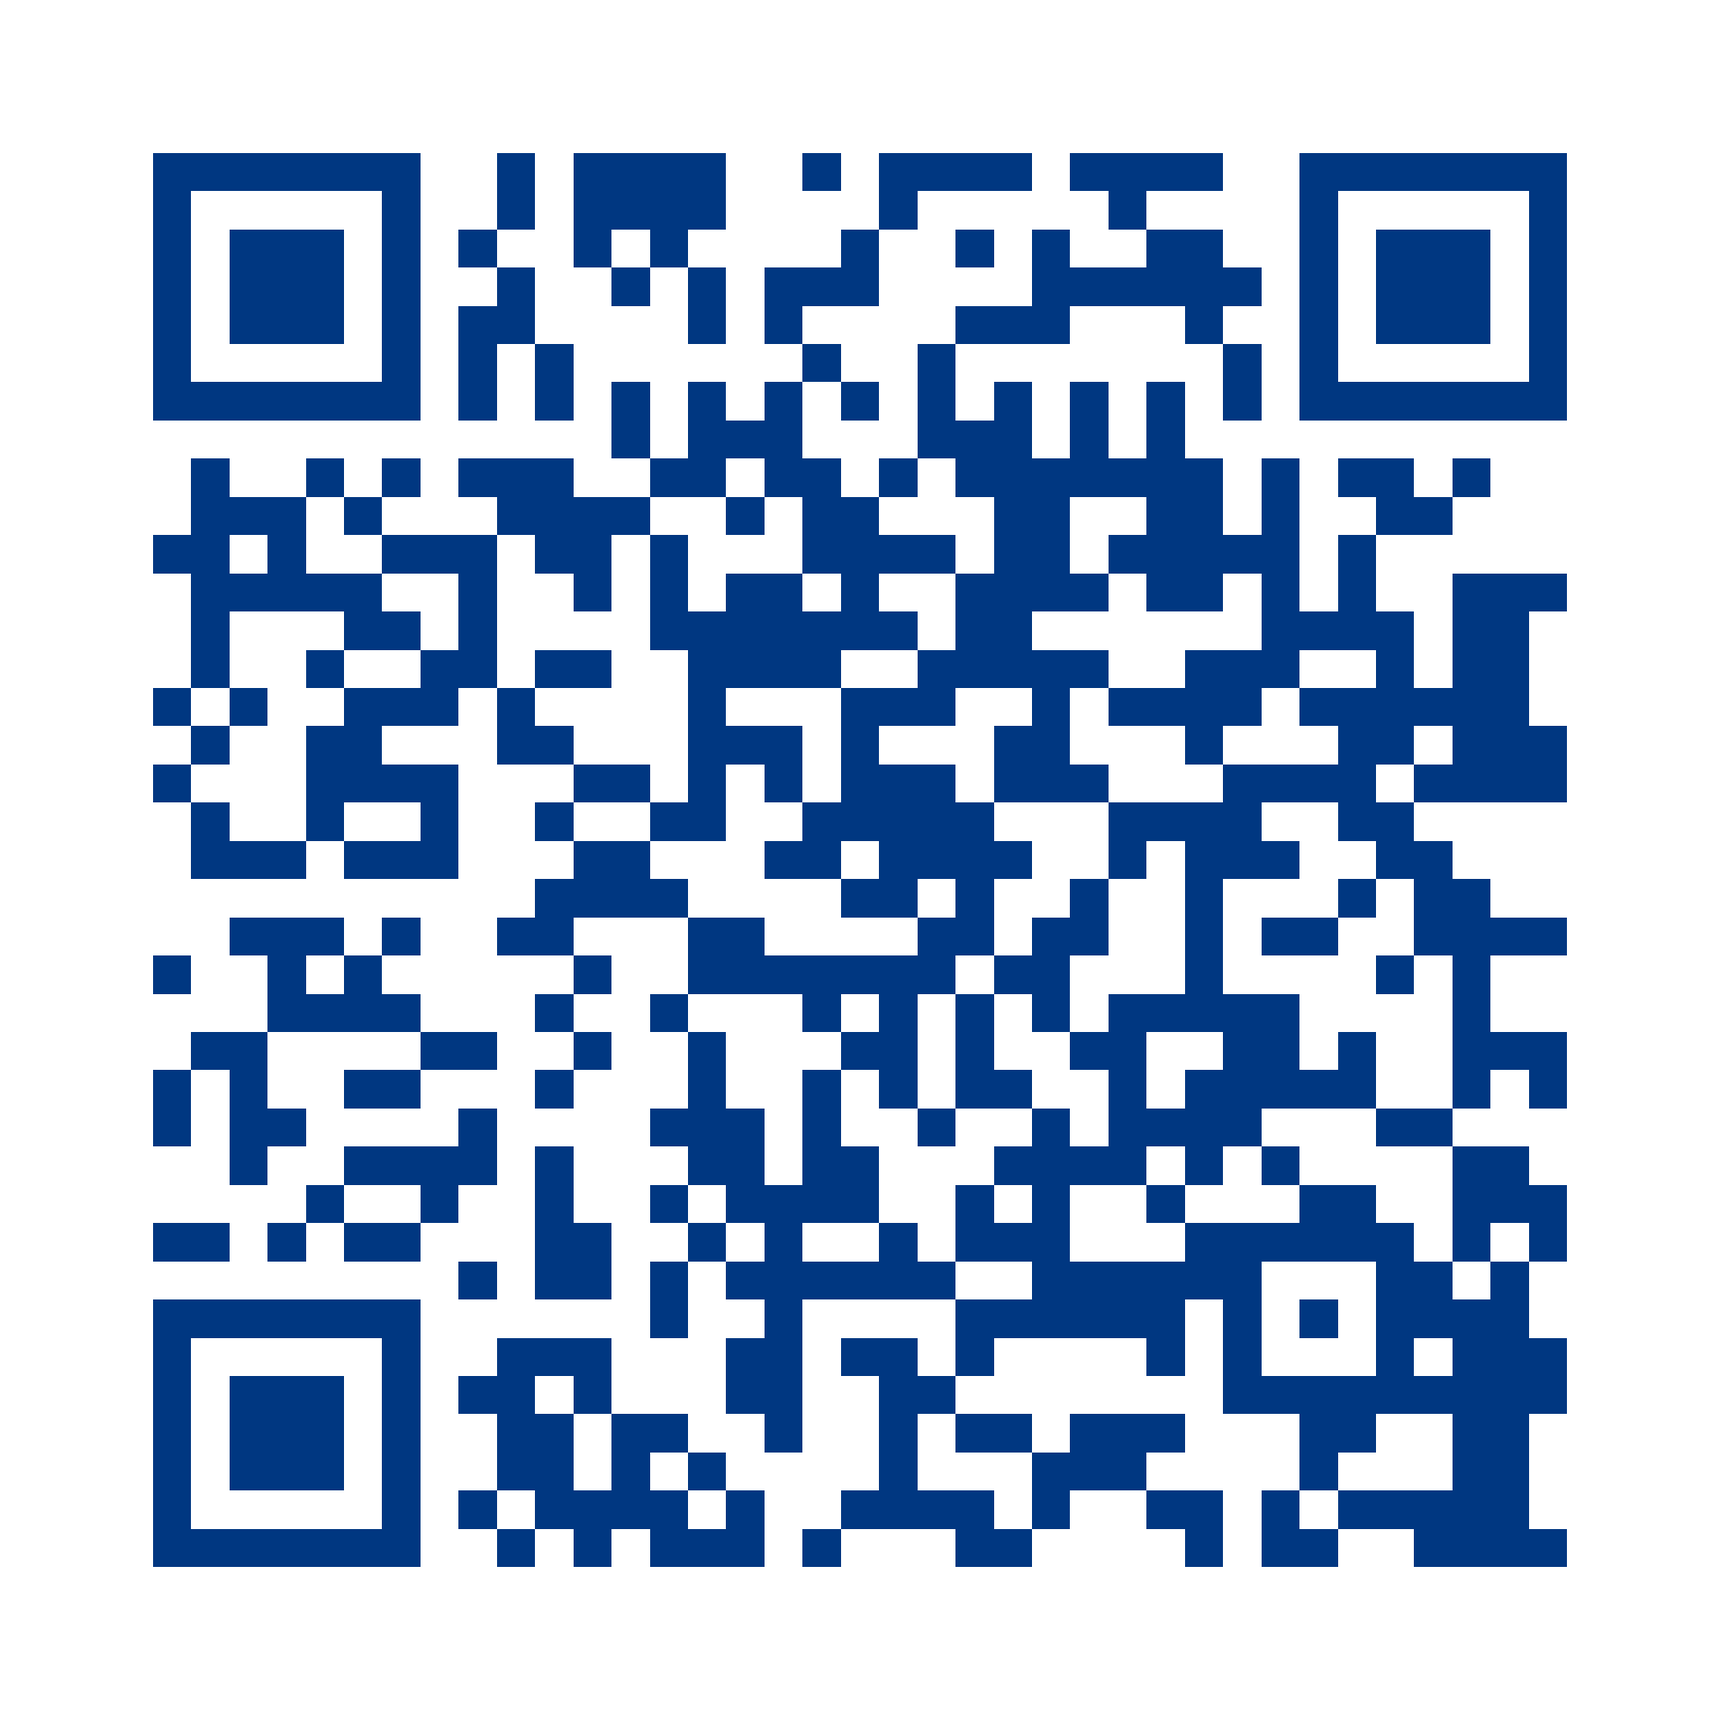
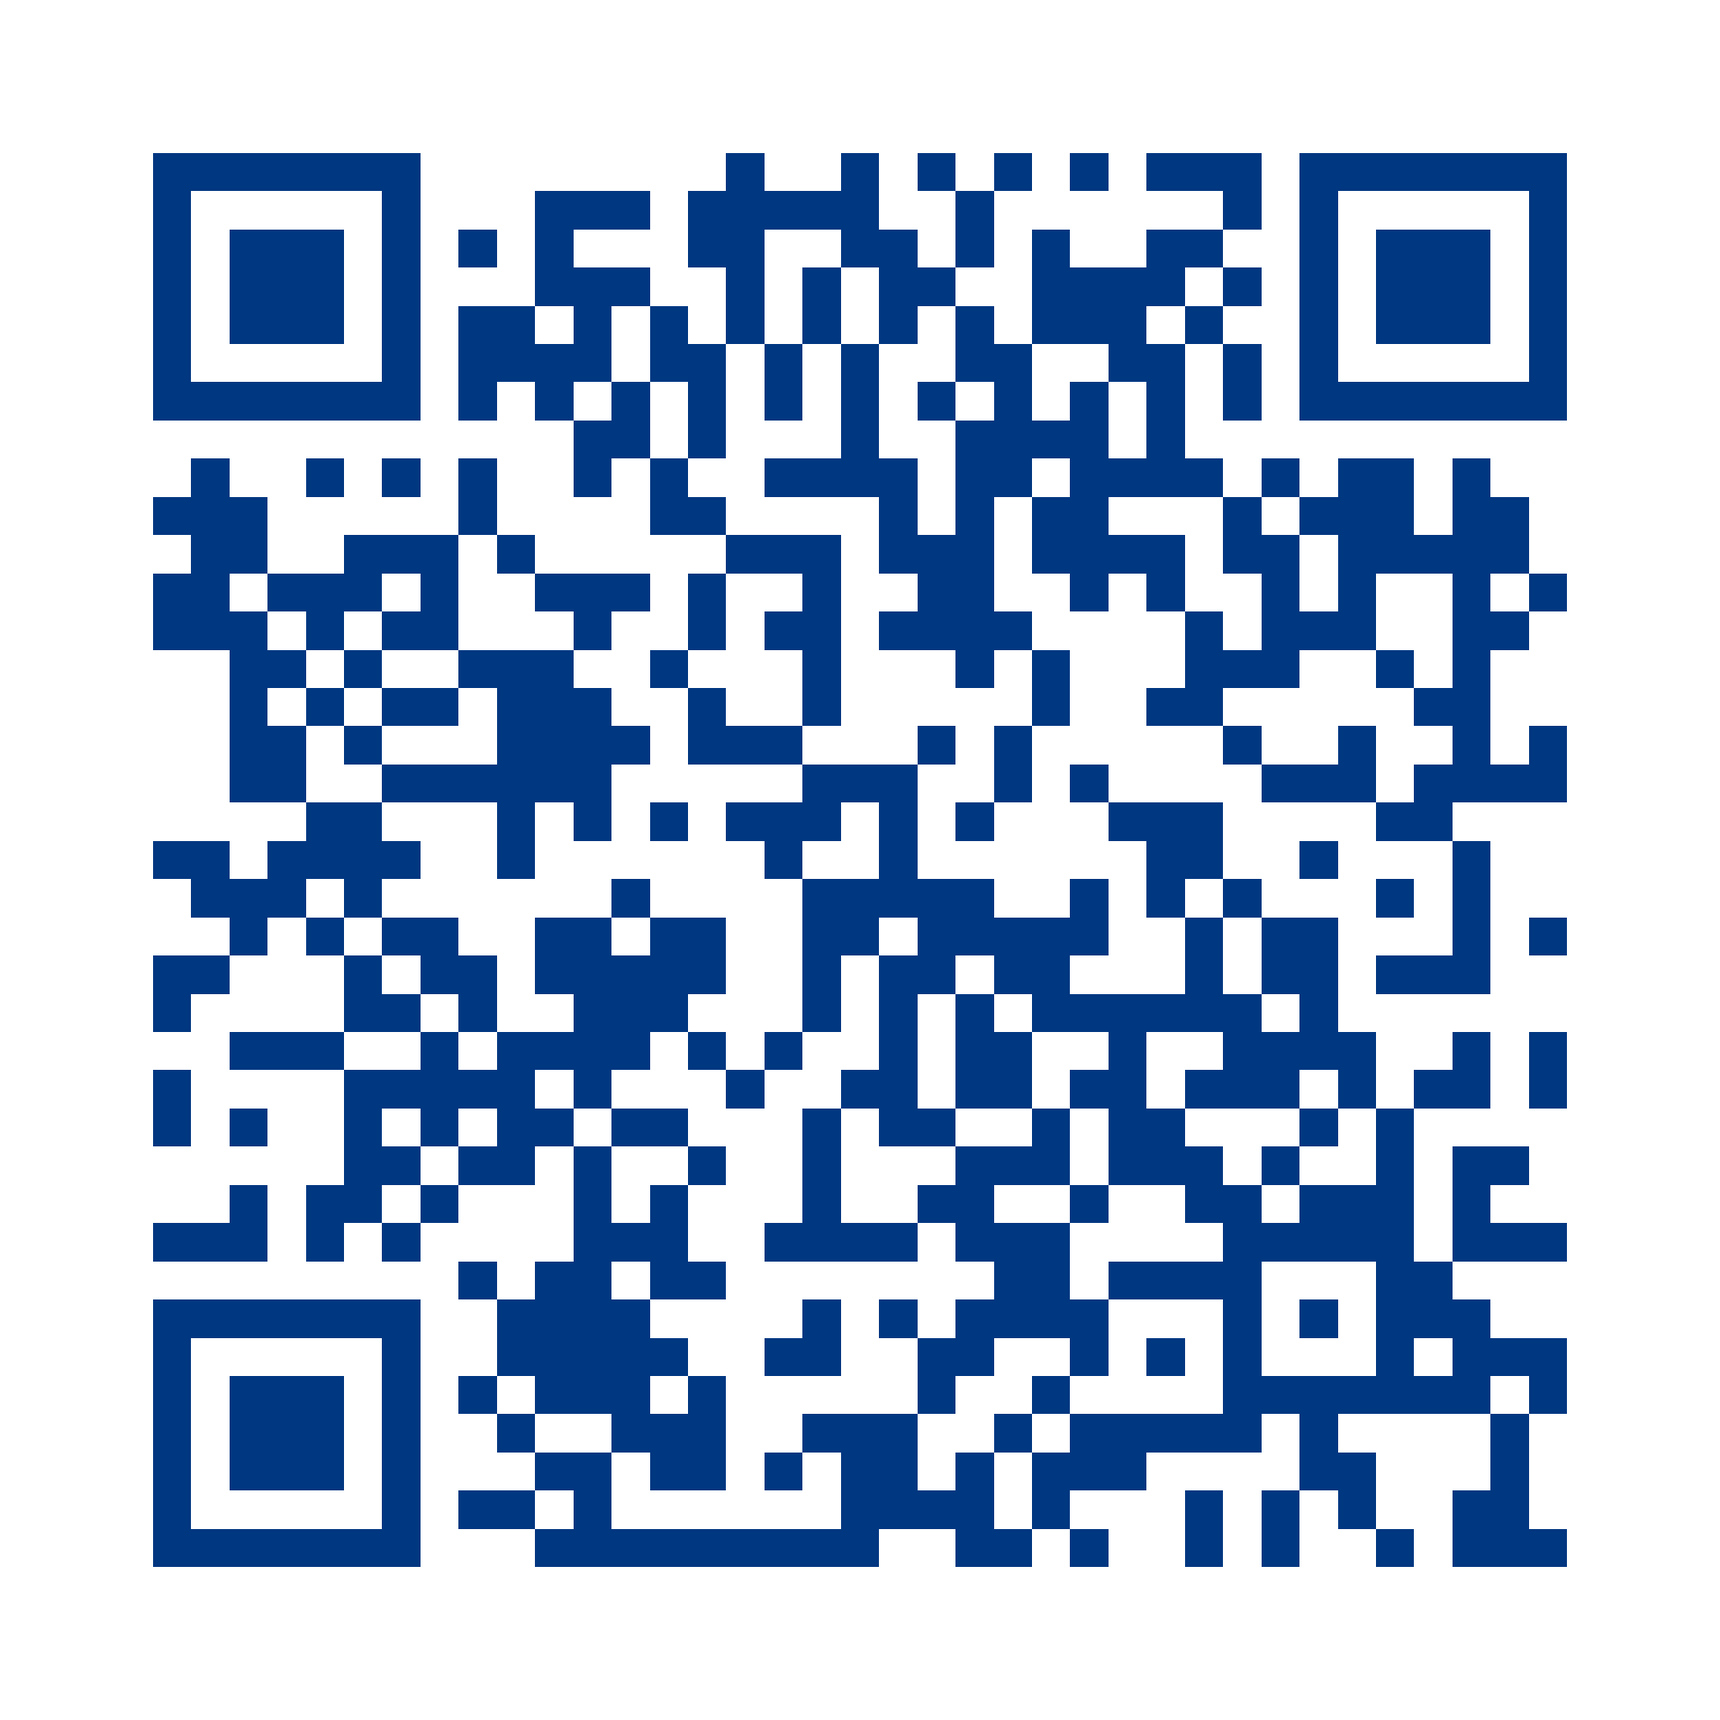
Anonyme Statistik mit Umami, QR-Code für vorsorgecheck-lang.de
- Zählpunkte für Fragen 1–5, Nachfrage, beide Ausstiege und Klicks auf
  Kontaktformular, Terminbuchung und Anrufen (keine Antworten, kein Einkommen)
- Umami-Skript nur bei eingetragener Website-ID, CSP gibt nur cloud.umami.is
  und gateway.umami.is frei, gezählt wird nur auf vorsorgecheck-lang.de
- QR-Code und Aushang-Karte auf https://vorsorgecheck-lang.de/?utm_source=aushang
- README: Live-Adresse, Statistik, Datenschutz

diff --git a/src/analytics.ts b/src/analytics.ts
@@ -1,0 +1,67 @@
+// Anonyme Nutzungsstatistik. Solange in config.ts keine Umami-Website-ID eingetragen ist,
+// wird nichts geladen und nichts gesendet.
+
+import { config } from "./config";
+
+type Sender = (name: string) => void;
+
+declare global {
+  interface Window {
+    umami?: { track: (name: string) => void };
+  }
+}
+
+let send: Sender | null = null;
+// Pro Durchlauf jede Seite nur einmal zählen – Vor- und Zurückklicken verfälscht sonst den Trichter
+const seen = new Set<string>();
+
+export const analyticsEnabled = config.analytics.websiteId !== "";
+
+export function setSender(sender: Sender | null): void {
+  send = sender;
+}
+
+export function track(name: string): void {
+  send?.(name);
+}
+
+export function trackOnce(name: string): void {
+  if (seen.has(name)) return;
+  seen.add(name);
+  track(name);
+}
+
+/** Neuer Durchlauf („Check neu starten“). */
+export function resetRun(): void {
+  seen.clear();
+}
+
+/** Zählt Klicks auf Links mit data-track="…", z. B. Termin- und Anruf-Buttons. */
+export function trackClicks(root: HTMLElement): void {
+  root.addEventListener("click", (event) => {
+    const link = (event.target as Element).closest<HTMLElement>("[data-track]");
+    if (link?.dataset.track) track(link.dataset.track);
+  });
+}
+
+/**
+ * Lädt das Umami-Skript. Der Seitenaufruf wird automatisch gezählt; Ereignisse, die vor dem
+ * Laden anfallen, werden kurz zwischengespeichert. Fehlt das Skript (z. B. Werbeblocker),
+ * funktioniert der Check ganz normal weiter.
+ */
+export function startAnalytics(): void {
+  if (!analyticsEnabled) return;
+  const { websiteId, scriptUrl, domain } = config.analytics;
+  const pending: string[] = [];
+  setSender((name) => (window.umami ? window.umami.track(name) : pending.push(name)));
+
+  const script = document.createElement("script");
+  script.defer = true;
+  script.src = scriptUrl;
+  script.dataset.websiteId = websiteId;
+  script.dataset.domains = domain;
+  script.addEventListener("load", () => {
+    for (const name of pending.splice(0)) window.umami?.track(name);
+  });
+  document.head.append(script);
+}

diff --git a/tests/tracking.test.ts b/tests/tracking.test.ts
@@ -1,0 +1,41 @@
+import { describe, expect, it } from "vitest";
+import { resetRun, setSender, trackOnce } from "../src/analytics";
+import { placeEvent } from "../src/logic/tracking";
+import type { Answers } from "../src/types";
+
+const base: Answers = { monthlyIncome: 3500 };
+
+describe("Statistik", () => {
+  it("benennt jede Seite des Checks", () => {
+    expect(([1, 2, 3, 4, 5] as const).map((p) => placeEvent(p, base))).toEqual([
+      "Frage 1",
+      "Frage 2",
+      "Frage 3",
+      "Frage 4",
+      "Frage 5",
+    ]);
+    expect(placeEvent("sicher", base)).toBe("Nachfrage: Bist du sicher?");
+    expect(placeEvent("ende", { ...base, satisfaction: "zufrieden", sure: "beenden" })).toBe("Ende: Rente reicht mir");
+    expect(placeEvent("ende", { ...base, satisfaction: "mehr", talk: "spaeter" })).toBe("Ende: Erst mal nicht");
+  });
+
+  it("zählt jede Seite pro Durchlauf nur einmal", () => {
+    const sent: string[] = [];
+    setSender((name) => sent.push(name));
+    trackOnce("Frage 1");
+    trackOnce("Frage 2");
+    trackOnce("Frage 1"); // zurück auf Frage 1
+    resetRun();
+    trackOnce("Frage 1"); // neuer Durchlauf
+    setSender(null);
+    expect(sent).toEqual(["Frage 1", "Frage 2", "Frage 1"]);
+  });
+
+  it("sendet keine Antworten und kein Einkommen", () => {
+    const answers: Answers = { monthlyIncome: 4200, satisfaction: "mehr", goal: "reisen", priority: "foerderung" };
+    for (const place of [1, 2, 3, 4, 5, "sicher", "ende"] as const) {
+      const name = placeEvent(place, answers);
+      expect(name).not.toMatch(/4200|4\.200|reisen|foerderung/i);
+    }
+  });
+});

diff --git a/src/main.ts b/src/main.ts
@@ -1,9 +1,11 @@
 import "./styles.css";
+import { resetRun, setSender, startAnalytics, trackClicks, trackOnce } from "./analytics";
 import { config } from "./config";
 import { fillPlaceholders, formatNumber } from "./content/copy";
 import { q1, q1Sure, q2, q3, q4 } from "./content/questions";
 import { TOTAL_STEPS, endReason, infoTopics, nextPlace, previousPlace } from "./logic/flow";
 import { estimatePension } from "./logic/pension";
+import { placeEvent } from "./logic/tracking";
 import type { Answers, Place } from "./types";
 import type { View } from "./ui/dom";
 import { el } from "./ui/dom";
@@ -37,6 +39,7 @@ function goTo(place: Place | null): void {
 
 function restart(): void {
   answers = freshAnswers();
+  resetRun();
   show({ name: "start" });
 }
 
@@ -157,6 +160,7 @@ function currentView(): View {
 function render(): void {
   const view = currentView();
   main.replaceChildren(view.node);
+  if (screen.name === "place") trackOnce(placeEvent(screen.place, answers));
   if (firstRender) {
     firstRender = false;
     return; // Beim ersten Laden keinen Fokus setzen
@@ -170,5 +174,9 @@ applyTheme(config.colors);
 if (isEmbedded) document.documentElement.classList.add("is-embedded");
 renderHeader(document.getElementById("site-header")!);
 renderFooter(document.getElementById("site-footer")!);
+// Im Entwicklungsmodus Zählpunkte nur in der Konsole anzeigen, sonst an Umami (falls eingetragen)
+if (import.meta.env.DEV) setSender((name) => console.info("[Statistik]", name));
+else startAnalytics();
+trackClicks(main);
 render();
 startHeightReporting(document.getElementById("app")!);

diff --git a/src/ui/final.ts b/src/ui/final.ts
@@ -2,6 +2,7 @@ import { config } from "../config";
 import { copy, fillPlaceholders } from "../content/copy";
 import { q5 } from "../content/questions";
 import { summaryLines } from "../logic/summary";
+import { CLICK_EVENTS } from "../logic/tracking";
 import type { Answers, ContactId } from "../types";
 import { el, externalLink, type View } from "./dom";
 import { renderChoices, renderHeading, renderProgress } from "./question";
@@ -9,7 +10,7 @@ import { renderChoices, renderHeading, renderProgress } from "./question";
 function callButton(): HTMLAnchorElement {
   return el(
     "a",
-    { class: "button button-secondary", href: config.phoneHref },
+    { class: "button button-secondary", href: config.phoneHref, "data-track": CLICK_EVENTS.call },
     // Geschützte Leerzeichen: Die Nummer soll im Button nicht umbrechen
     fillPlaceholders(copy.final.callButton, { phone: config.phone.replace(/ /g, "\u00a0") }),
   );
@@ -29,7 +30,12 @@ function renderNextStep(panel: HTMLElement, contact: ContactId): void {
     el(
       "div",
       { class: "contact-actions" },
-      externalLink(url, step.button, "button button-cta"),
+      externalLink(
+        url,
+        step.button,
+        "button button-cta",
+        contact === "ja" ? CLICK_EVENTS.contactForm : CLICK_EVENTS.booking,
+      ),
       callButton(),
     ),
     el("p", { class: "disclaimer" }, copy.final.newTabNote),

diff --git a/src/ui/end.ts b/src/ui/end.ts
@@ -2,6 +2,7 @@ import { config } from "../config";
 import { copy, fillPlaceholders } from "../content/copy";
 import { ending } from "../content/questions";
 import { summaryLines } from "../logic/summary";
+import { CLICK_EVENTS } from "../logic/tracking";
 import type { Answers, EndReason } from "../types";
 import { el, externalLink, type View } from "./dom";
 
@@ -27,11 +28,15 @@ export function renderEnd(props: EndViewProps): View {
     el(
       "ul",
       { class: "later-links" },
-      el("li", {}, externalLink(config.bookingUrl, ending.bookingLink)),
+      el("li", {}, externalLink(config.bookingUrl, ending.bookingLink, undefined, CLICK_EVENTS.bookingLater)),
       el(
         "li",
         {},
-        el("a", { href: config.phoneHref }, fillPlaceholders(ending.callLink, { phone: config.phone })),
+        el(
+          "a",
+          { href: config.phoneHref, "data-track": CLICK_EVENTS.callLater },
+          fillPlaceholders(ending.callLink, { phone: config.phone }),
+        ),
       ),
     ),
   );

diff --git a/vite.config.ts b/vite.config.ts
@@ -1,16 +1,18 @@
 import { defineConfig } from "vitest/config";
+import { config } from "./src/config";
 
 // Nur im Build: Content-Security-Policy als Meta-Tag. Sie erlaubt ausschließlich
-// eigene Dateien, keine iframes und blockiert jede
-// Netzwerkanfrage aus dem Skript heraus.
+// eigene Dateien, keine iframes und blockiert jede Netzwerkanfrage aus dem Skript heraus –
+// einzige Ausnahme ist die anonyme Statistik (Umami), wenn eine Website-ID eingetragen ist.
 // (Im Entwicklungsmodus würde sie Vites Live-Reload blockieren.)
+const stats = config.analytics.websiteId ? config.analytics : null;
 const csp = [
   "default-src 'self'",
-  "script-src 'self'",
+  stats ? `script-src 'self' ${new URL(stats.scriptUrl).origin}` : "script-src 'self'",
   "style-src 'self'",
   "img-src 'self' data: https:",
   "font-src 'self'",
-  "connect-src 'none'",
+  stats ? `connect-src ${new URL(stats.endpoint).origin}` : "connect-src 'none'",
   "frame-src 'none'",
   "object-src 'none'",
   "base-uri 'self'",

diff --git a/src/config.ts b/src/config.ts
@@ -37,6 +37,14 @@ export const config = {
     contributionForMaxAllowance: 1800, // Eigenbeitrag pro Jahr, ab dem die volle Grundzulage fließt
     childAllowance: 300, // Kinderzulage pro Kind und Jahr, höchstens
   },
+  // Anonyme Nutzungsstatistik mit Umami Cloud (ohne Cookies). Leere websiteId = keine Statistik.
+  // Gezählt werden nur erreichte Seiten und Klicks auf Termin/Kontakt/Anruf – keine Antworten.
+  analytics: {
+    websiteId: "aaa0176a-0c9b-4fce-9de3-c02465f180bb", // Website-ID aus Umami (Einstellungen → Websites → Bearbeiten)
+    scriptUrl: "https://cloud.umami.is/script.js",
+    endpoint: "https://gateway.umami.is", // Dorthin sendet das Umami-Skript die Zählungen
+    domain: "vorsorgecheck-lang.de", // nur hier zählen, nicht bei lokalen Tests
+  },
   // Allianz-CI, abgeleitet aus dem Design-System von allianz.de
   colors: {
     primary: "#007AB3", // Allianz Interaktiv-Blau: Buttons, Links, Fortschritt, Auswahl

diff --git a/src/logic/tracking.ts b/src/logic/tracking.ts
@@ -1,0 +1,25 @@
+// Namen der anonymen Zählpunkte für die Statistik. Gezählt wird nur, welche Seite
+// erreicht und welcher Button geklickt wurde – keine Antworten, kein Einkommen.
+
+import type { Answers, Place } from "../types";
+import { endReason } from "./flow";
+
+export const CLICK_EVENTS = {
+  contactForm: "Klick: Kontaktformular",
+  booking: "Klick: Terminbuchung",
+  call: "Klick: Anrufen",
+  bookingLater: "Klick: Terminbuchung (Abschlussseite)",
+  callLater: "Klick: Anrufen (Abschlussseite)",
+} as const;
+
+/** Ereignis, wenn jemand eine Seite des Checks erreicht. */
+export function placeEvent(place: Place, answers: Answers): string {
+  switch (place) {
+    case "sicher":
+      return "Nachfrage: Bist du sicher?";
+    case "ende":
+      return endReason(answers) === "zufrieden" ? "Ende: Rente reicht mir" : "Ende: Erst mal nicht";
+    default:
+      return `Frage ${place}`;
+  }
+}

diff --git a/src/ui/dom.ts b/src/ui/dom.ts
@@ -24,6 +24,11 @@ export interface View {
   focus?: HTMLElement; // Element, das nach dem Screenwechsel den Fokus bekommt
 }
 
-export function externalLink(href: string, text: string, className?: string): HTMLAnchorElement {
-  return el("a", { href, class: className, target: "_blank", rel: "noopener noreferrer" }, text);
+/** `track`: Name des Zählpunkts für die Statistik (siehe analytics.ts). */
+export function externalLink(href: string, text: string, className?: string, track?: string): HTMLAnchorElement {
+  return el(
+    "a",
+    { href, class: className, target: "_blank", rel: "noopener noreferrer", "data-track": track },
+    text,
+  );
 }

diff --git a/README.md b/README.md
@@ -2,6 +2,8 @@
 
 Ein kleines Web-Tool: 5 Fragen, ca. 2 Minuten. Es zeigt, wie viel gesetzliche Rente man ungefähr erwarten kann, fragt nach Zielen und Vorsorge-Wunsch und führt zum kostenlosen Orientierungsgespräch.
 
+**Live:** https://vorsorgecheck-lang.de (GitHub Pages, eigene Domain bei Namecheap)
+
 Entstanden als Kopie des Selbstchecks [Versicherungscheck](https://github.com/sc89y66296-alt/Versicherungscheck); Technik, Gestaltung und Terminbuchung sind von dort übernommen.
 
 ## Ablauf
@@ -144,8 +146,9 @@ Bei Website-Baukästen (z. B. WordPress-Block „Individuelles HTML“) lässt s
 
 ## 6. Datenschutz
 
-- Keine Cookies, kein `localStorage`/`sessionStorage`, keine Anfragen an fremde Server, keine externen Schriften.
-- Der gebaute Check enthält eine Content-Security-Policy, die Netzwerkanfragen aus dem Skript heraus technisch blockiert.
+- Keine Cookies, kein `localStorage`/`sessionStorage`, keine externen Schriften. Fremde Server werden nur für die anonyme Statistik angesprochen (siehe unten), wenn sie eingeschaltet ist.
+- Der gebaute Check enthält eine Content-Security-Policy, die Netzwerkanfragen aus dem Skript heraus technisch blockiert – mit der einzigen Ausnahme des Statistik-Servers.
+- **Statistik (Umami Cloud):** Ist in `src/config.ts` unter `analytics.websiteId` eine ID eingetragen, lädt der Check das Umami-Skript und zählt ohne Cookies: Seitenaufruf (mit Herkunft, z. B. `utm_source=aushang`), erreichte Fragen (`Frage 1`–`Frage 5`, `Nachfrage: Bist du sicher?`), die beiden Ausstiege (`Ende: …`) und Klicks auf Kontaktformular, Terminbuchung und Anrufen. Antworten und Einkommen werden nicht gesendet. Jede Seite zählt pro Durchlauf einmal. Gezählt wird nur auf `analytics.domain`, nicht bei lokalen Tests. Auswertung in Umami unter *Reports → Funnel* (Schritte als Events: Frage 1 → … → Frage 5 → Klick). Werbeblocker unterdrücken die Zählung teilweise – die Zahlen sind eine Untergrenze. Die Statistik muss in der Datenschutzerklärung genannt werden (IP-Adresse wird kurz verarbeitet, aber nicht gespeichert).
 - Frage 5: Kontaktformular (allianz-vor-ort.de) und Buchungskalender (Allianz-Dienstleister bookingtime) öffnen sich erst nach einem Klick in einem neuen Tab – vorher gibt es keine Verbindung dorthin. Angaben aus dem Check werden nicht übergeben, ein Referrer wird nicht gesendet. Was jemand dort eingibt, verarbeiten die Allianz bzw. bookingtime nach ihren eigenen Datenschutzhinweisen; die Datenschutzerklärung der Agentur sollte bookingtime nennen. Der Check selbst lädt keine fremden Seiten (Content-Security-Policy: `frame-src 'none'`).
 - Wie bei jeder Webseite protokolliert der Webserver ggf. IP-Adressen in seinen Log-Dateien – das ist Sache des Hosters und gehört in die bestehende Datenschutzerklärung der Website.
 - Das Einkommen aus Frage 1 bleibt im Browser und wird nirgends hin übertragen.
@@ -161,7 +164,7 @@ Bei Website-Baukästen (z. B. WordPress-Block „Individuelles HTML“) lässt s
 
 ## 8. QR-Code
 
-Im Ordner `qr-code/` liegen ein reiner QR-Code und eine Aushang-Karte (1080 × 1350, Allianz-Farben), jeweils als SVG (für den Druck, beliebig skalierbar) und PNG. Beide verweisen auf die GitHub-Pages-Adresse https://sc89y66296-alt.github.io/Altersvorsorgedepot/. Zieht der Check später auf die Agentur-Website um, muss der QR-Code neu erzeugt werden.
+Im Ordner `qr-code/` liegen ein reiner QR-Code und eine Aushang-Karte (1080 × 1350, Allianz-Farben), jeweils als SVG (für den Druck, beliebig skalierbar) und PNG. Beide verweisen auf https://vorsorgecheck-lang.de/?utm_source=aushang – so erscheinen Besuche über den Aushang in der Statistik (Umami → Quellen/UTM) getrennt. Die alte Adresse https://sc89y66296-alt.github.io/Altersvorsorgedepot/ leitet GitHub automatisch dorthin weiter. Ändert sich die Adresse, muss der QR-Code neu erzeugt werden.
 
 ## 9. Projektstruktur
 
